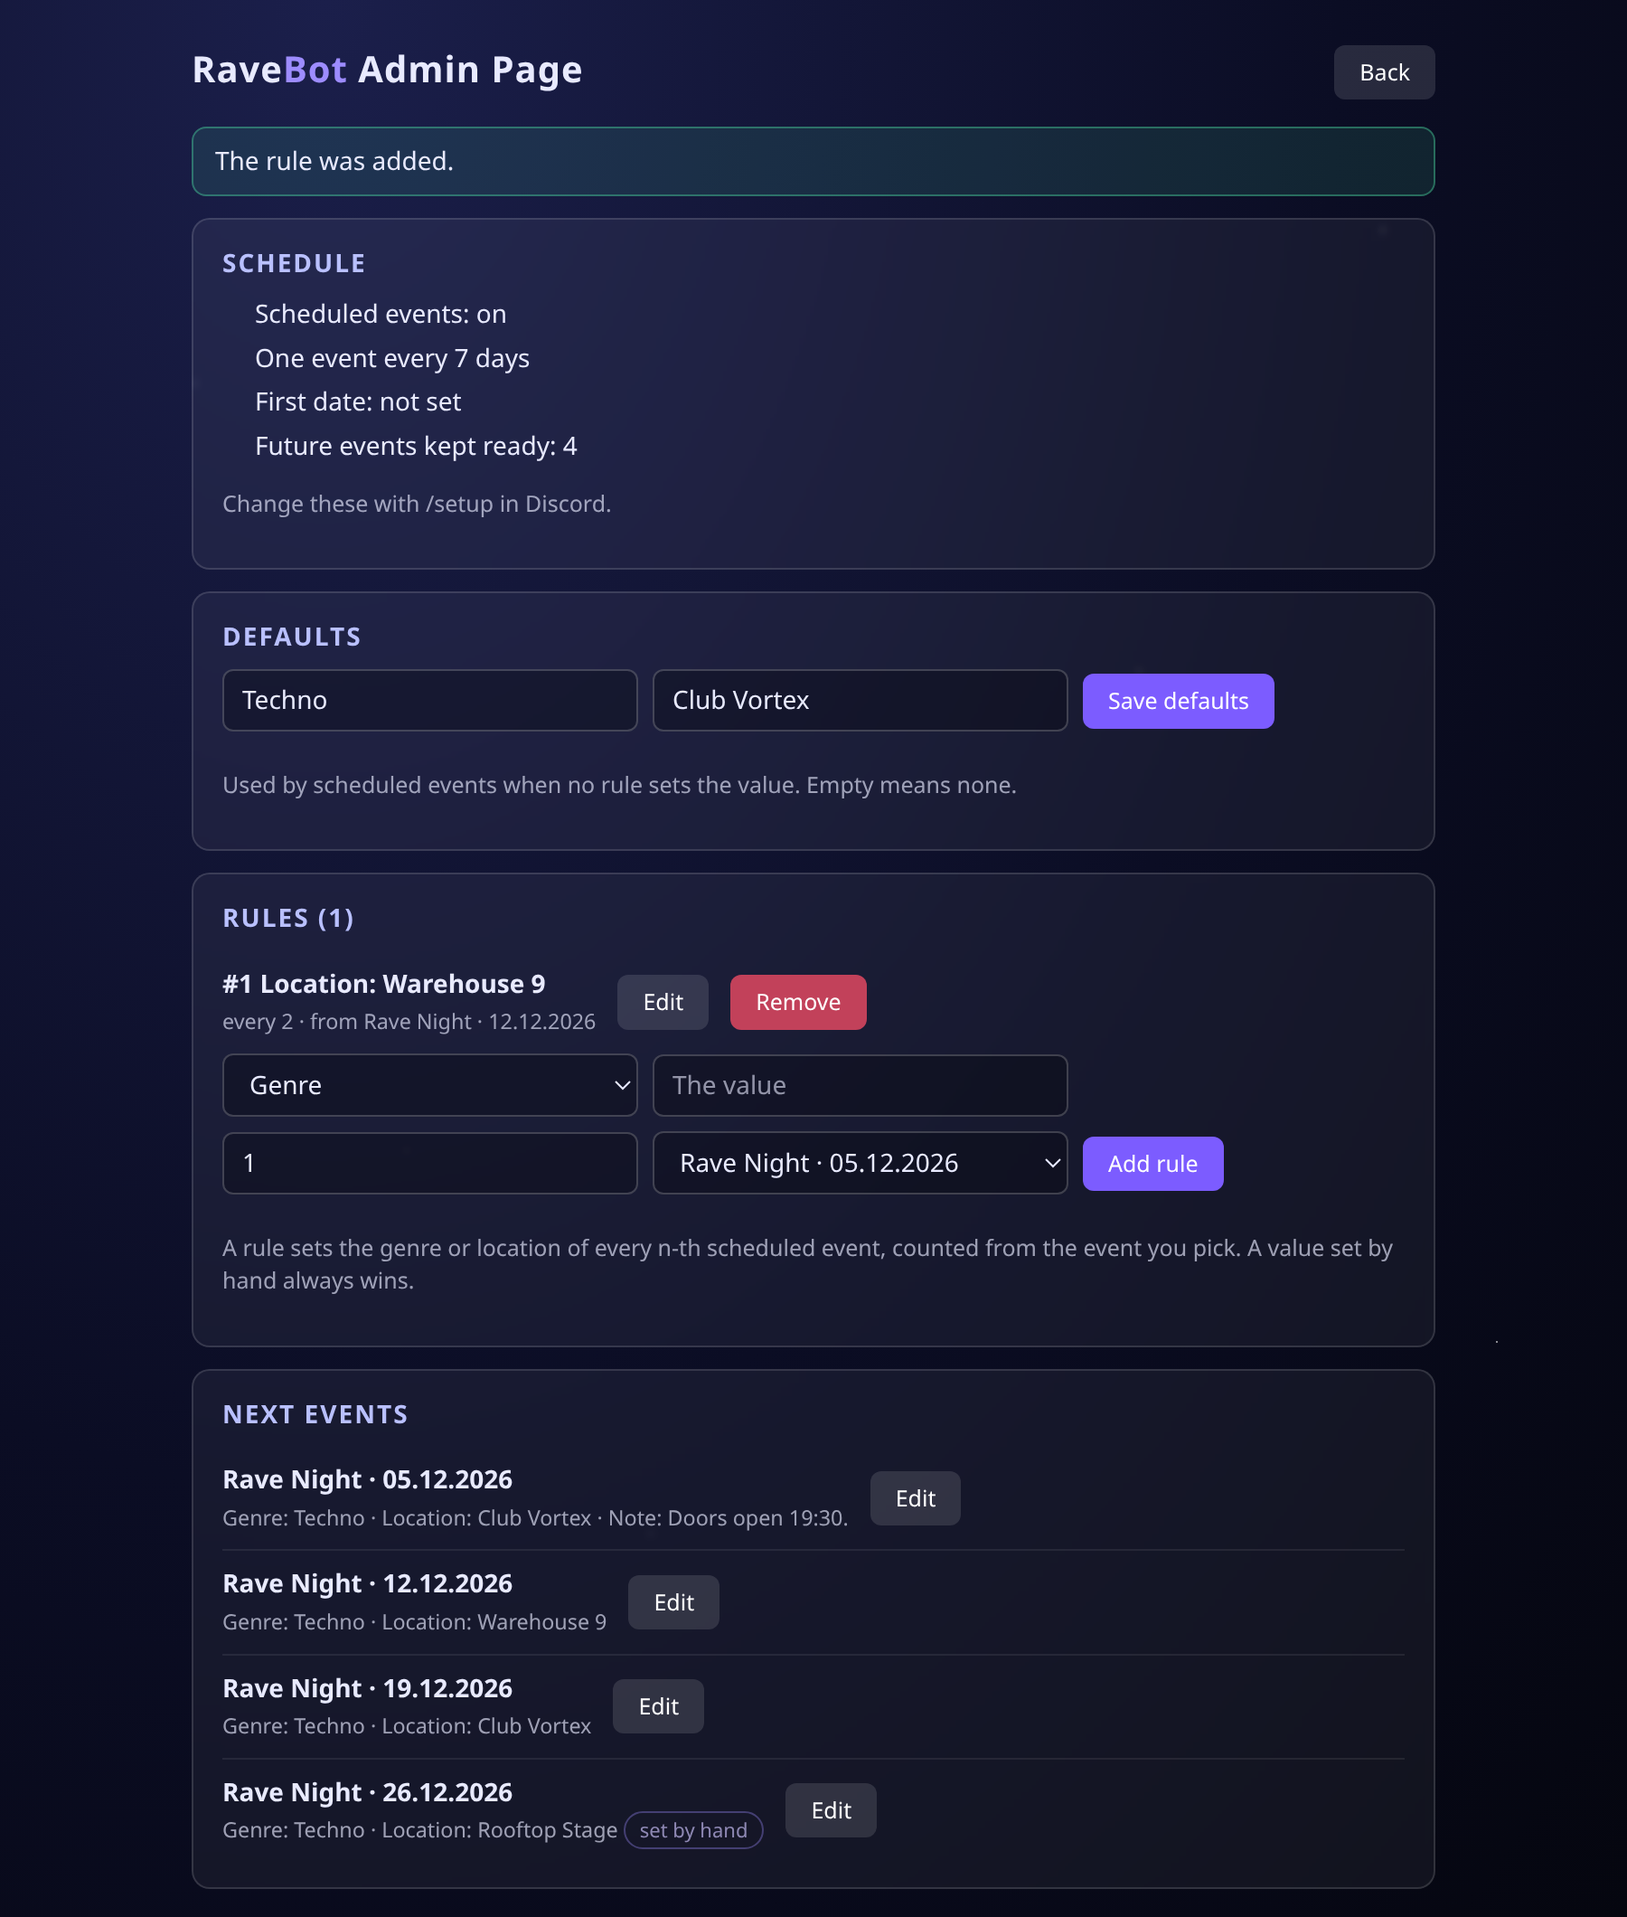
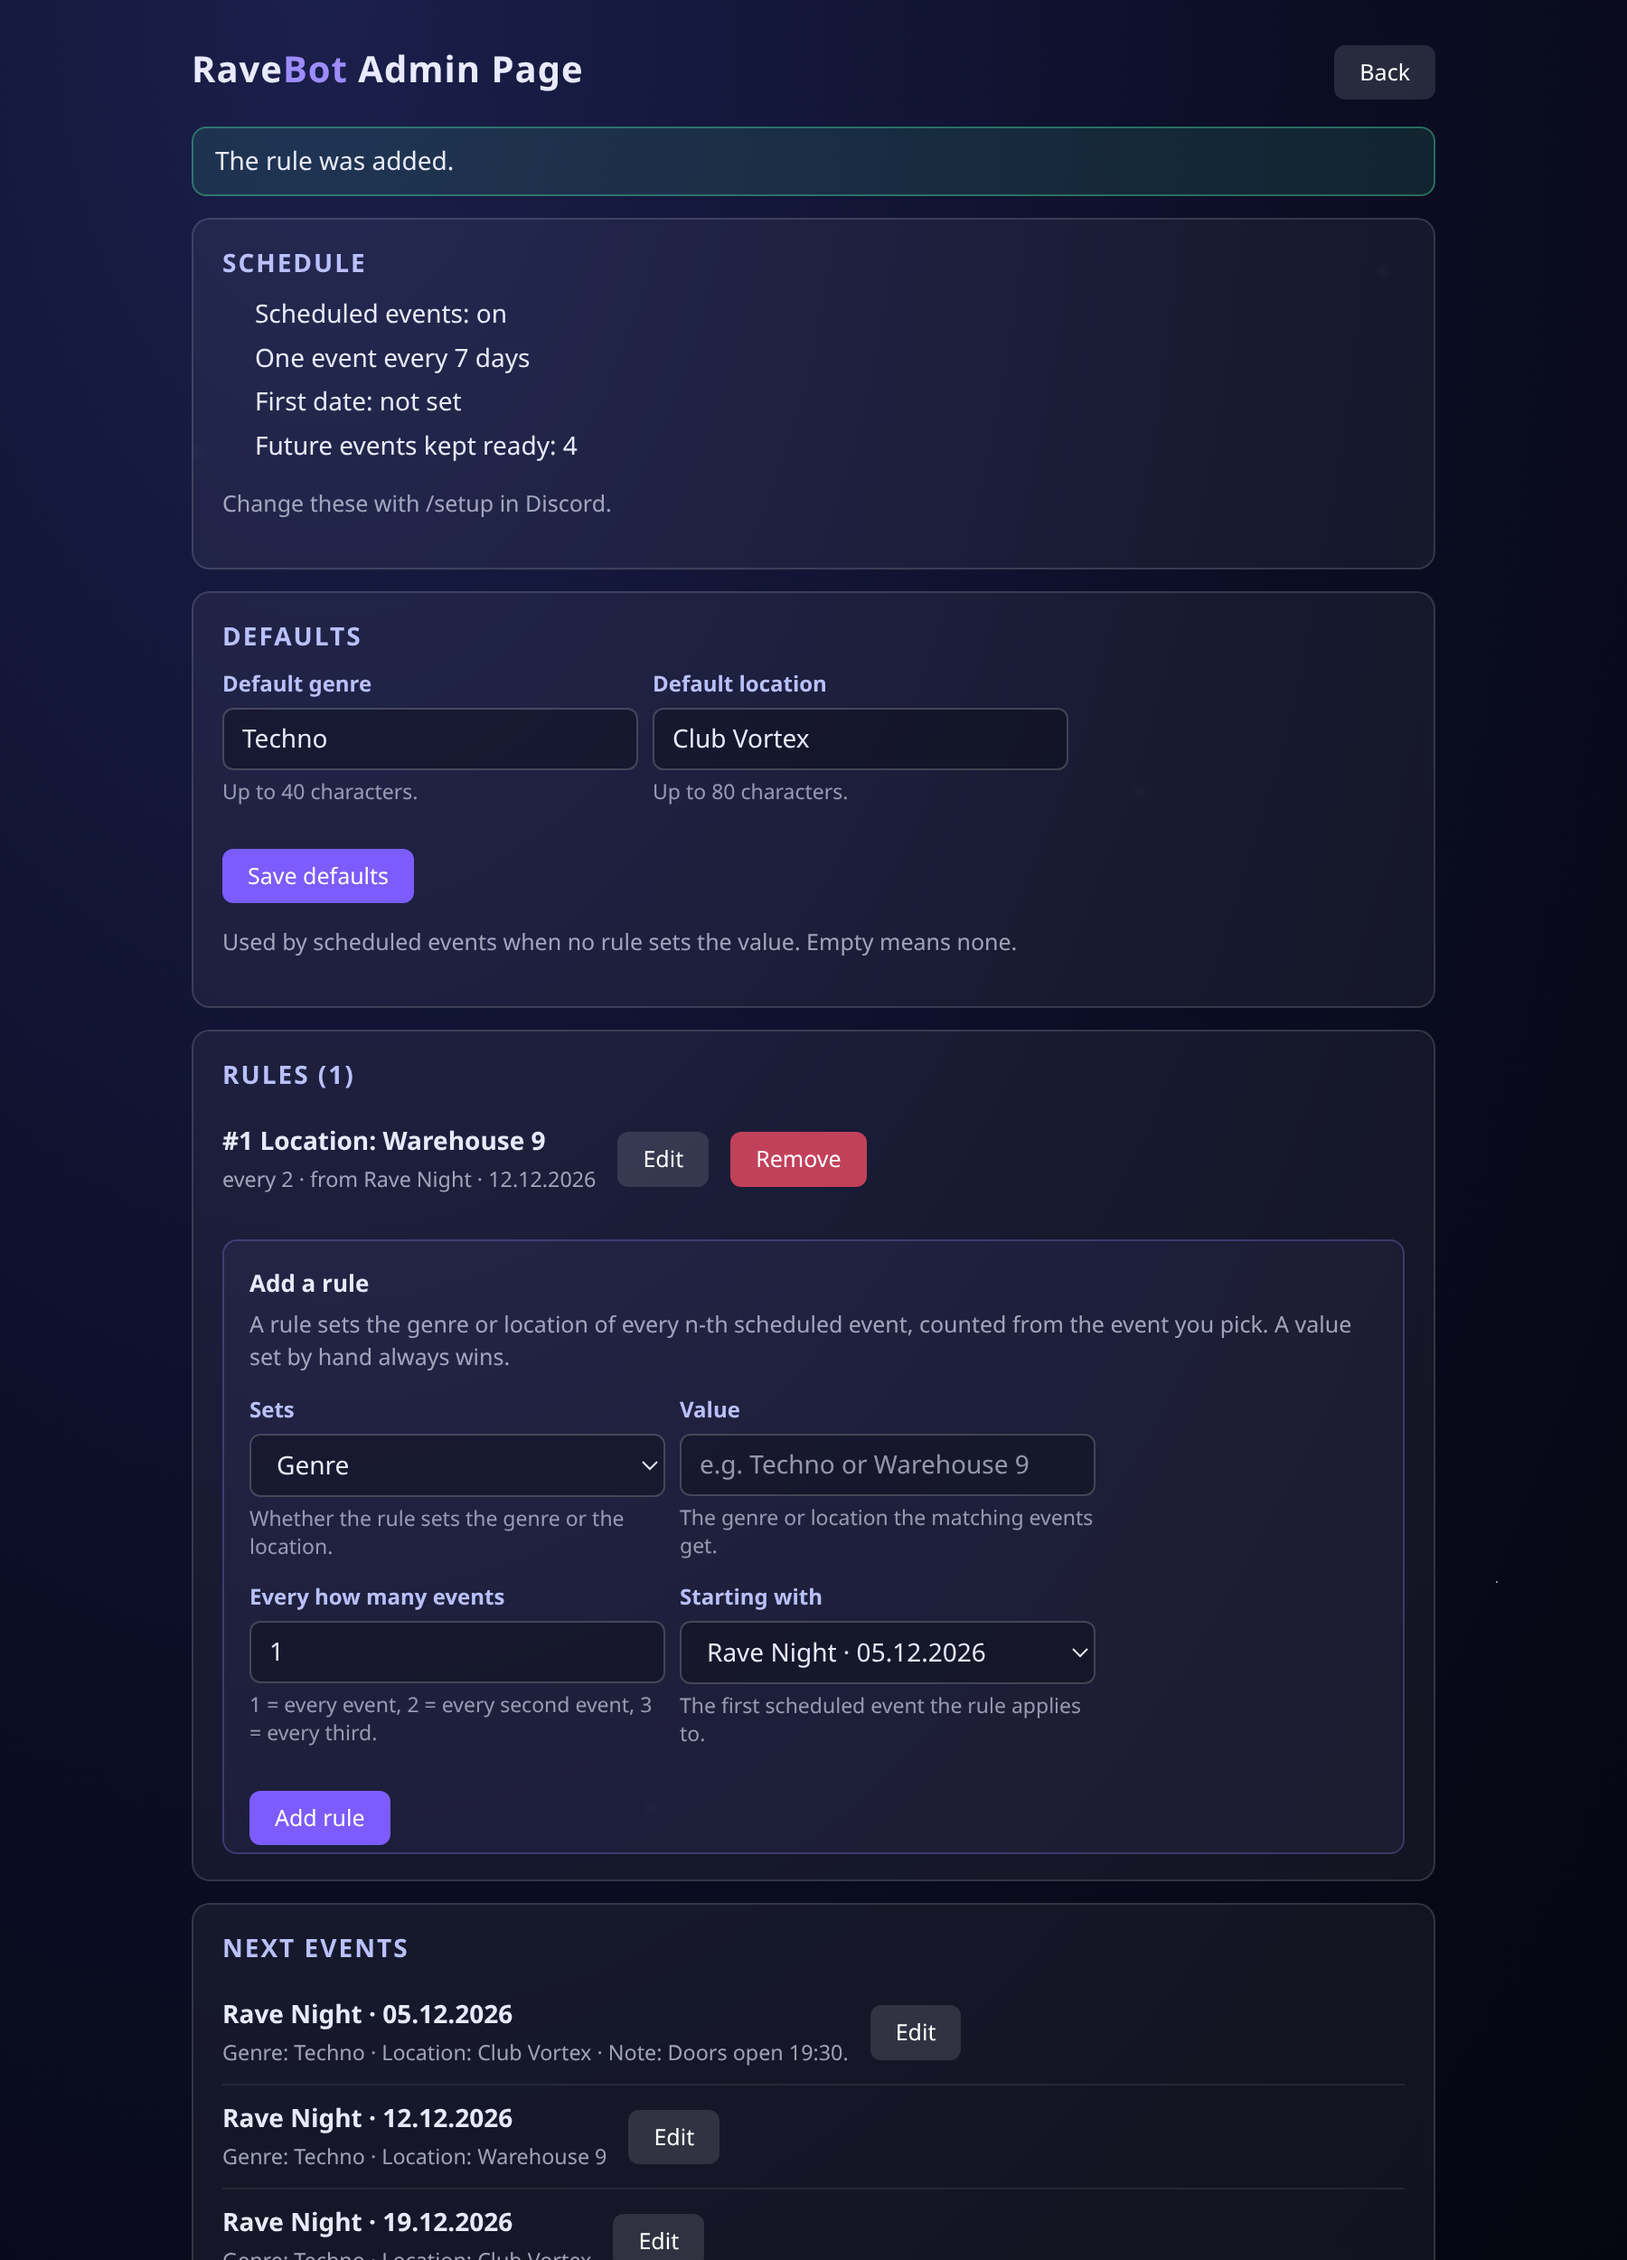
feat(web): labelled rule and default fields; add-rule form in its own block
Each schedule form field has a visible label and a short hint, and the add-rule
form sits in a separate block below the rule list. The edit-rule page uses the
same fields. README screenshot re-rendered.

diff --git a/bot/web/pages.py b/bot/web/pages.py
@@ -73,6 +73,15 @@ margin-right:auto}
 .msg.err{background:#c2415a26;border-color:#c2415a88}
 .actions{display:flex;gap:8px;flex-wrap:wrap;margin-top:12px}
 .kv{margin:4px 0;padding-left:18px;overflow-wrap:anywhere}
+.fld{display:inline-flex;flex-direction:column;width:230px;max-width:100%;margin:0 8px 12px 0;
+vertical-align:top}
+.fld>span{font-size:12px;font-weight:600;color:#b9c0ff;margin-bottom:4px}
+.fld .in{width:100%;margin:0}
+.fld small{opacity:.6;font-size:11.5px;margin-top:4px;line-height:1.35}
+.sub{margin-top:16px;padding:14px 14px 4px;border:1px solid #9d8cff44;border-radius:8px;
+background:#9d8cff0f}
+.sub h4{margin:0 0 4px;font-size:13px;color:#e8eaff}
+.sub>p{margin:0 0 12px}
 form{margin:0}
 """
 
@@ -579,6 +588,38 @@ def _text_input(name: str, label: str, value: str, maxlen: int) -> str:
     )
 
 
+def _labeled(label: str, control: str, hint: str = "") -> str:
+    """A form control with a visible label above it and an optional hint below."""
+    small = f"<small>{_e(hint)}</small>" if hint else ""
+    return f'<label class="fld"><span>{_e(label)}</span>{control}{small}</label>'
+
+
+def _rule_inputs(
+    values: dict[str, str],
+    anchor_options: list[tuple[str, str]],
+    field_select: str = "",
+) -> str:
+    """Value, interval and first event of a rule, each with a label and a hint."""
+    return (
+        field_select
+        + _labeled(
+            "Value",
+            _text_input("value", "e.g. Techno or Warehouse 9", values.get("value", ""), 80),
+            "The genre or location the matching events get.",
+        )
+        + _labeled(
+            "Every how many events",
+            _every_input(values.get("every", "1")),
+            "1 = every event, 2 = every second event, 3 = every third.",
+        )
+        + _labeled(
+            "Starting with",
+            _anchor_select(anchor_options, values.get("start")),
+            "The first scheduled event the rule applies to.",
+        )
+    )
+
+
 def _anchor_select(options: list[tuple[str, str]], selected: str | None = None) -> str:
     items = "".join(
         f'<option value="{_e(iso)}"{" selected" if iso == selected else ""}>{_e(label)}</option>'
@@ -661,9 +702,18 @@ def render_schedule(
     defaults = (
         '<section class="card"><h3>Defaults</h3>'
         f'<form method="post" action="/schedule/defaults">{_csrf_field(csrf)}'
-        + _text_input("genre", "Default genre", shown_defaults["genre"], 40)
-        + _text_input("location", "Default location", shown_defaults["location"], 80)
-        + '<button class="btn" type="submit">Save defaults</button></form>'
+        + _labeled(
+            "Default genre",
+            _text_input("genre", "Default genre", shown_defaults["genre"], 40),
+            "Up to 40 characters.",
+        )
+        + _labeled(
+            "Default location",
+            _text_input("location", "Default location", shown_defaults["location"], 80),
+            "Up to 80 characters.",
+        )
+        + '<div class="actions"><button class="btn" type="submit">Save defaults</button></div>'
+        "</form>"
         '<p class="muted">Used by scheduled events when no rule sets the value. '
         "Empty means none.</p></section>"
     )
@@ -672,16 +722,20 @@ def render_schedule(
         f'<option value="{k}"{" selected" if values.get("field") == k else ""}>{_e(v)}</option>'
         for k, v in _FIELD_CHOICES
     )
+    field_select = _labeled(
+        "Sets",
+        f'<select class="in" name="field" aria-label="What the rule sets">{field_options}</select>',
+        "Whether the rule sets the genre or the location.",
+    )
     rules = (
         f'<section class="card"><h3>Rules ({len(overview.rules)})</h3>{rows}'
-        f'<form method="post" action="/schedule/rules/add">{_csrf_field(csrf)}'
-        f'<select class="in" name="field" aria-label="What the rule sets">{field_options}</select>'
-        + _text_input("value", "The value", values.get("value", ""), 80)
-        + _every_input(values.get("every", "1"))
-        + _anchor_select(anchor_options, values.get("start"))
-        + '<button class="btn" type="submit">Add rule</button></form>'
+        '<div class="sub"><h4>Add a rule</h4>'
         '<p class="muted">A rule sets the genre or location of every n-th scheduled event, '
-        "counted from the event you pick. A value set by hand always wins.</p></section>"
+        "counted from the event you pick. A value set by hand always wins.</p>"
+        f'<form method="post" action="/schedule/rules/add">{_csrf_field(csrf)}'
+        + _rule_inputs(values, anchor_options, field_select)
+        + '<div class="actions"><button class="btn" type="submit">Add rule</button></div>'
+        "</form></div></section>"
     )
     events = "".join(_event_row(d) for d in overview.dates) or '<p class="muted">None.</p>'
     return _page(
@@ -707,9 +761,14 @@ def render_edit_rule(
         f"({_e(texts.field_name(rule.field))})</h3>"
         f'<form method="post" action="/schedule/rules/{_e(rule.id)}/edit">{_csrf_field(csrf)}'
         f'<input type="hidden" name="field" value="{_e(rule.field)}">'
-        + _text_input("value", "The value", values.get("value", rule.value), 80)
-        + _every_input(values.get("every", str(rule.every)))
-        + _anchor_select(options, values.get("start", rule.anchor.isoformat()))
+        + _rule_inputs(
+            {
+                "value": values.get("value", rule.value),
+                "every": values.get("every", str(rule.every)),
+                "start": values.get("start", rule.anchor.isoformat()),
+            },
+            options,
+        )
         + '<div class="actions"><button class="btn" type="submit">Save</button>'
         '<a class="btn g" href="/schedule">Cancel</a></div></form></section>'
     )

diff --git a/tests/web/test_pages.py b/tests/web/test_pages.py
@@ -287,3 +287,47 @@ def test_missing_databases_card_says_paused_only_when_paused() -> None:
     assert "Booking and the lineup keep working" in page
     page = render_dashboard(SERVER, [], "tok", notion_problem="gone", notion_paused=True)
     assert "booking and edits are paused" in page
+
+
+def _schedule_overview(rules=()):
+    from bot.web.schedule_page import ScheduleOverview
+
+    return ScheduleOverview(
+        enabled=True, interval_days=7, first_date=None, lookahead=4,
+        defaults={}, rules=list(rules), dates=[], anchors=[], pending=0,
+    )
+
+
+def test_rule_form_fields_have_labels_and_hints() -> None:
+    from bot.web.pages import render_schedule
+
+    page = render_schedule(_schedule_overview(), [("Rave Night · 05.12.2026", "2026-12-05")], "t")
+    for label in ("Sets", "Value", "Every how many events", "Starting with"):
+        assert f"<span>{label}</span>" in page
+    assert "1 = every event, 2 = every second event" in page
+    assert "The first scheduled event the rule applies to." in page
+
+
+def test_add_rule_form_is_a_separate_block_after_the_rule_list() -> None:
+    from bot.services.schedule_rules import Rule
+    from bot.web.pages import render_schedule
+    from bot.web.schedule_page import RuleView
+
+    view = RuleView(Rule(1, "location", "Hall B", 2, datetime.date(2026, 12, 5)), "Rave Night")
+    page = render_schedule(_schedule_overview([view]), [], "t")
+    listing = page.index("#1 Location: Hall B")
+    block = page.index('<div class="sub"><h4>Add a rule</h4>')
+    assert listing < block < page.index('action="/schedule/rules/add"')
+
+
+def test_edit_rule_form_uses_the_same_labels() -> None:
+    from bot.services.schedule_rules import Rule
+    from bot.web.pages import render_edit_rule
+    from bot.web.schedule_page import RuleView
+
+    view = RuleView(Rule(1, "genre", "Techno", 2, datetime.date(2026, 12, 5)), "Rave Night")
+    page = render_edit_rule(view, [("Rave Night · 05.12.2026", "2026-12-05")], "t")
+    for label in ("Value", "Every how many events", "Starting with"):
+        assert f"<span>{label}</span>" in page
+    assert 'value="Techno"' in page and 'value="2"' in page
+    assert '<option value="2026-12-05" selected>' in page
